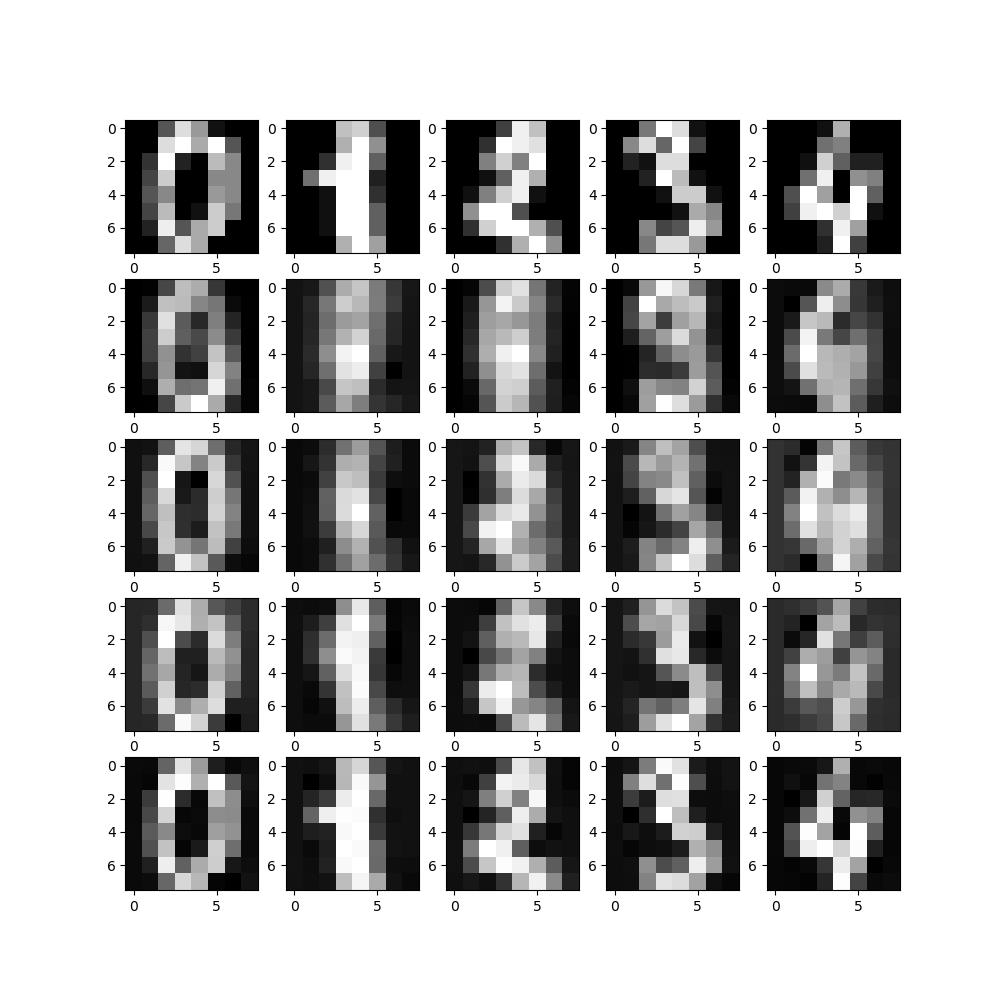
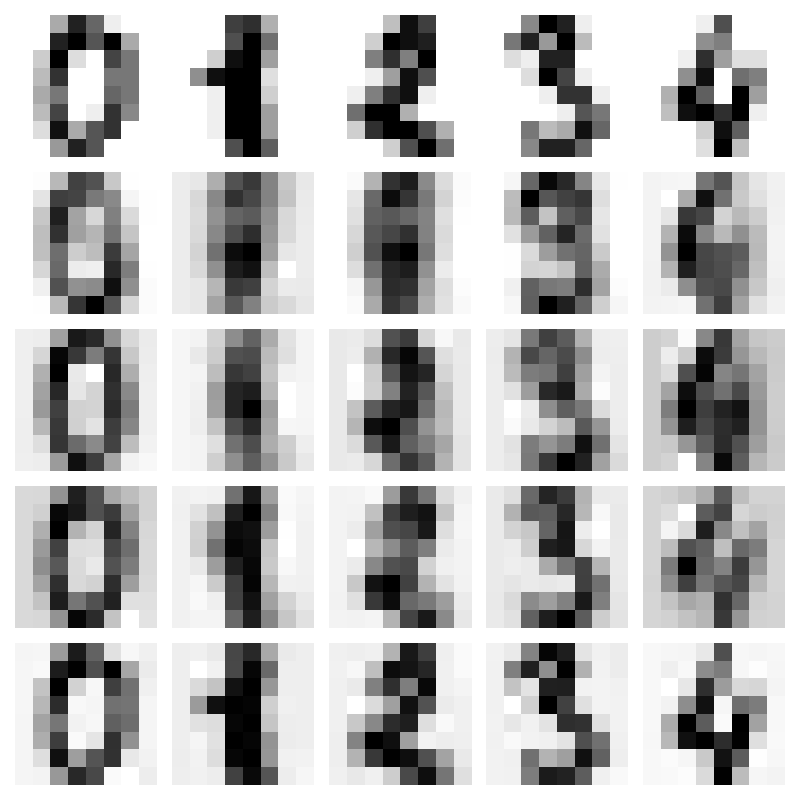
Warmup revisions 2

diff --git a/assignments_03/warmup_03.py b/assignments_03/warmup_03.py
@@ -142,34 +142,32 @@ log_reg1.fit(X_train_scaled,y_train)
 log_reg2.fit(X_train_scaled,y_train)
 log_reg3.fit(X_train_scaled,y_train)
 
-log_reg_np1 = (
-    np.abs(log_reg1.estimators_[0].coef_).sum()
-    + np.abs(log_reg1.estimators_[1].coef_).sum()
-    + np.abs(log_reg1.estimators_[2].coef_).sum()
-)
+log_reg1_coefs = np.vstack((
+    log_reg1.estimators_[0].coef_,
+    log_reg1.estimators_[1].coef_,
+    log_reg1.estimators_[2].coef_
+))
 
-log_reg_np2 = (
-    np.abs(log_reg2.estimators_[0].coef_).sum()
-    + np.abs(log_reg2.estimators_[1].coef_).sum()
-    + np.abs(log_reg2.estimators_[2].coef_).sum()
-)
+log_reg2_coefs = np.vstack((
+    log_reg2.estimators_[0].coef_,
+    log_reg2.estimators_[1].coef_,
+    log_reg2.estimators_[2].coef_
+))
 
+log_reg3_coefs = np.vstack((
+    log_reg3.estimators_[0].coef_,
+    log_reg3.estimators_[1].coef_,
+    log_reg3.estimators_[2].coef_
+))
 
-log_reg_np3 = (
-    np.abs(log_reg3.estimators_[0].coef_).sum()
-    + np.abs(log_reg3.estimators_[1].coef_).sum()
-    + np.abs(log_reg3.estimators_[2].coef_).sum()
-)
+log_reg_np1 = np.abs(log_reg1_coefs).sum()
+log_reg_np2 = np.abs(log_reg2_coefs).sum()
+log_reg_np3 = np.abs(log_reg3_coefs).sum()
 
 print(f"\nLogical Regression 01:\n")
-print(f"C = {log_reg1.estimator.C}")
-print(f"Total coefficient size = {log_reg_np1:.3f}")
-
-print(f"C = {log_reg2.estimator.C}")
-print(f"Total coefficient size = {log_reg_np2:.3f}")
-
-print(f"C = {log_reg3.estimator.C}")
-print(f"Total coefficient size = {log_reg_np3:.3f}")
+print(f"C = {log_reg1.estimator.C} | Total coefficient size = {log_reg_np1:.3f}")
+print(f"C = {log_reg2.estimator.C} | Total coefficient size = {log_reg_np2:.3f}")
+print(f"C = {log_reg3.estimator.C} | Total coefficient size = {log_reg_np3:.3f}")
 
 # As C increases, the coefficients increase too.
 # Smaller C values keep them lower and bigger C values let them grow.
@@ -246,7 +244,7 @@ for i in range(5):
     axes[0, i].imshow(images[i], cmap="gray_r")
     axes[0, i].axis("off")
 
-axes[0, 0].set_ylabel("Original")
+axes[0, 0].set_ylabel("Original", rotation=0, labelpad=35)
 
 # Reconstruction rows
 for row, n_components in enumerate(n_values, start=1):
@@ -260,7 +258,11 @@ for row, n_components in enumerate(n_values, start=1):
 
         axes[row, i].imshow(reconstructed, cmap="gray_r")
         axes[row, i].axis("off")
-    axes[row, 0].set_ylabel(f"n={n_components}")
+    axes[row, 0].set_ylabel(
+        f"n = {n_components}",
+        rotation=0,
+        labelpad=35
+    )
 
 plt.tight_layout()
 plt.savefig("outputs/pca_reconstructions.png")
